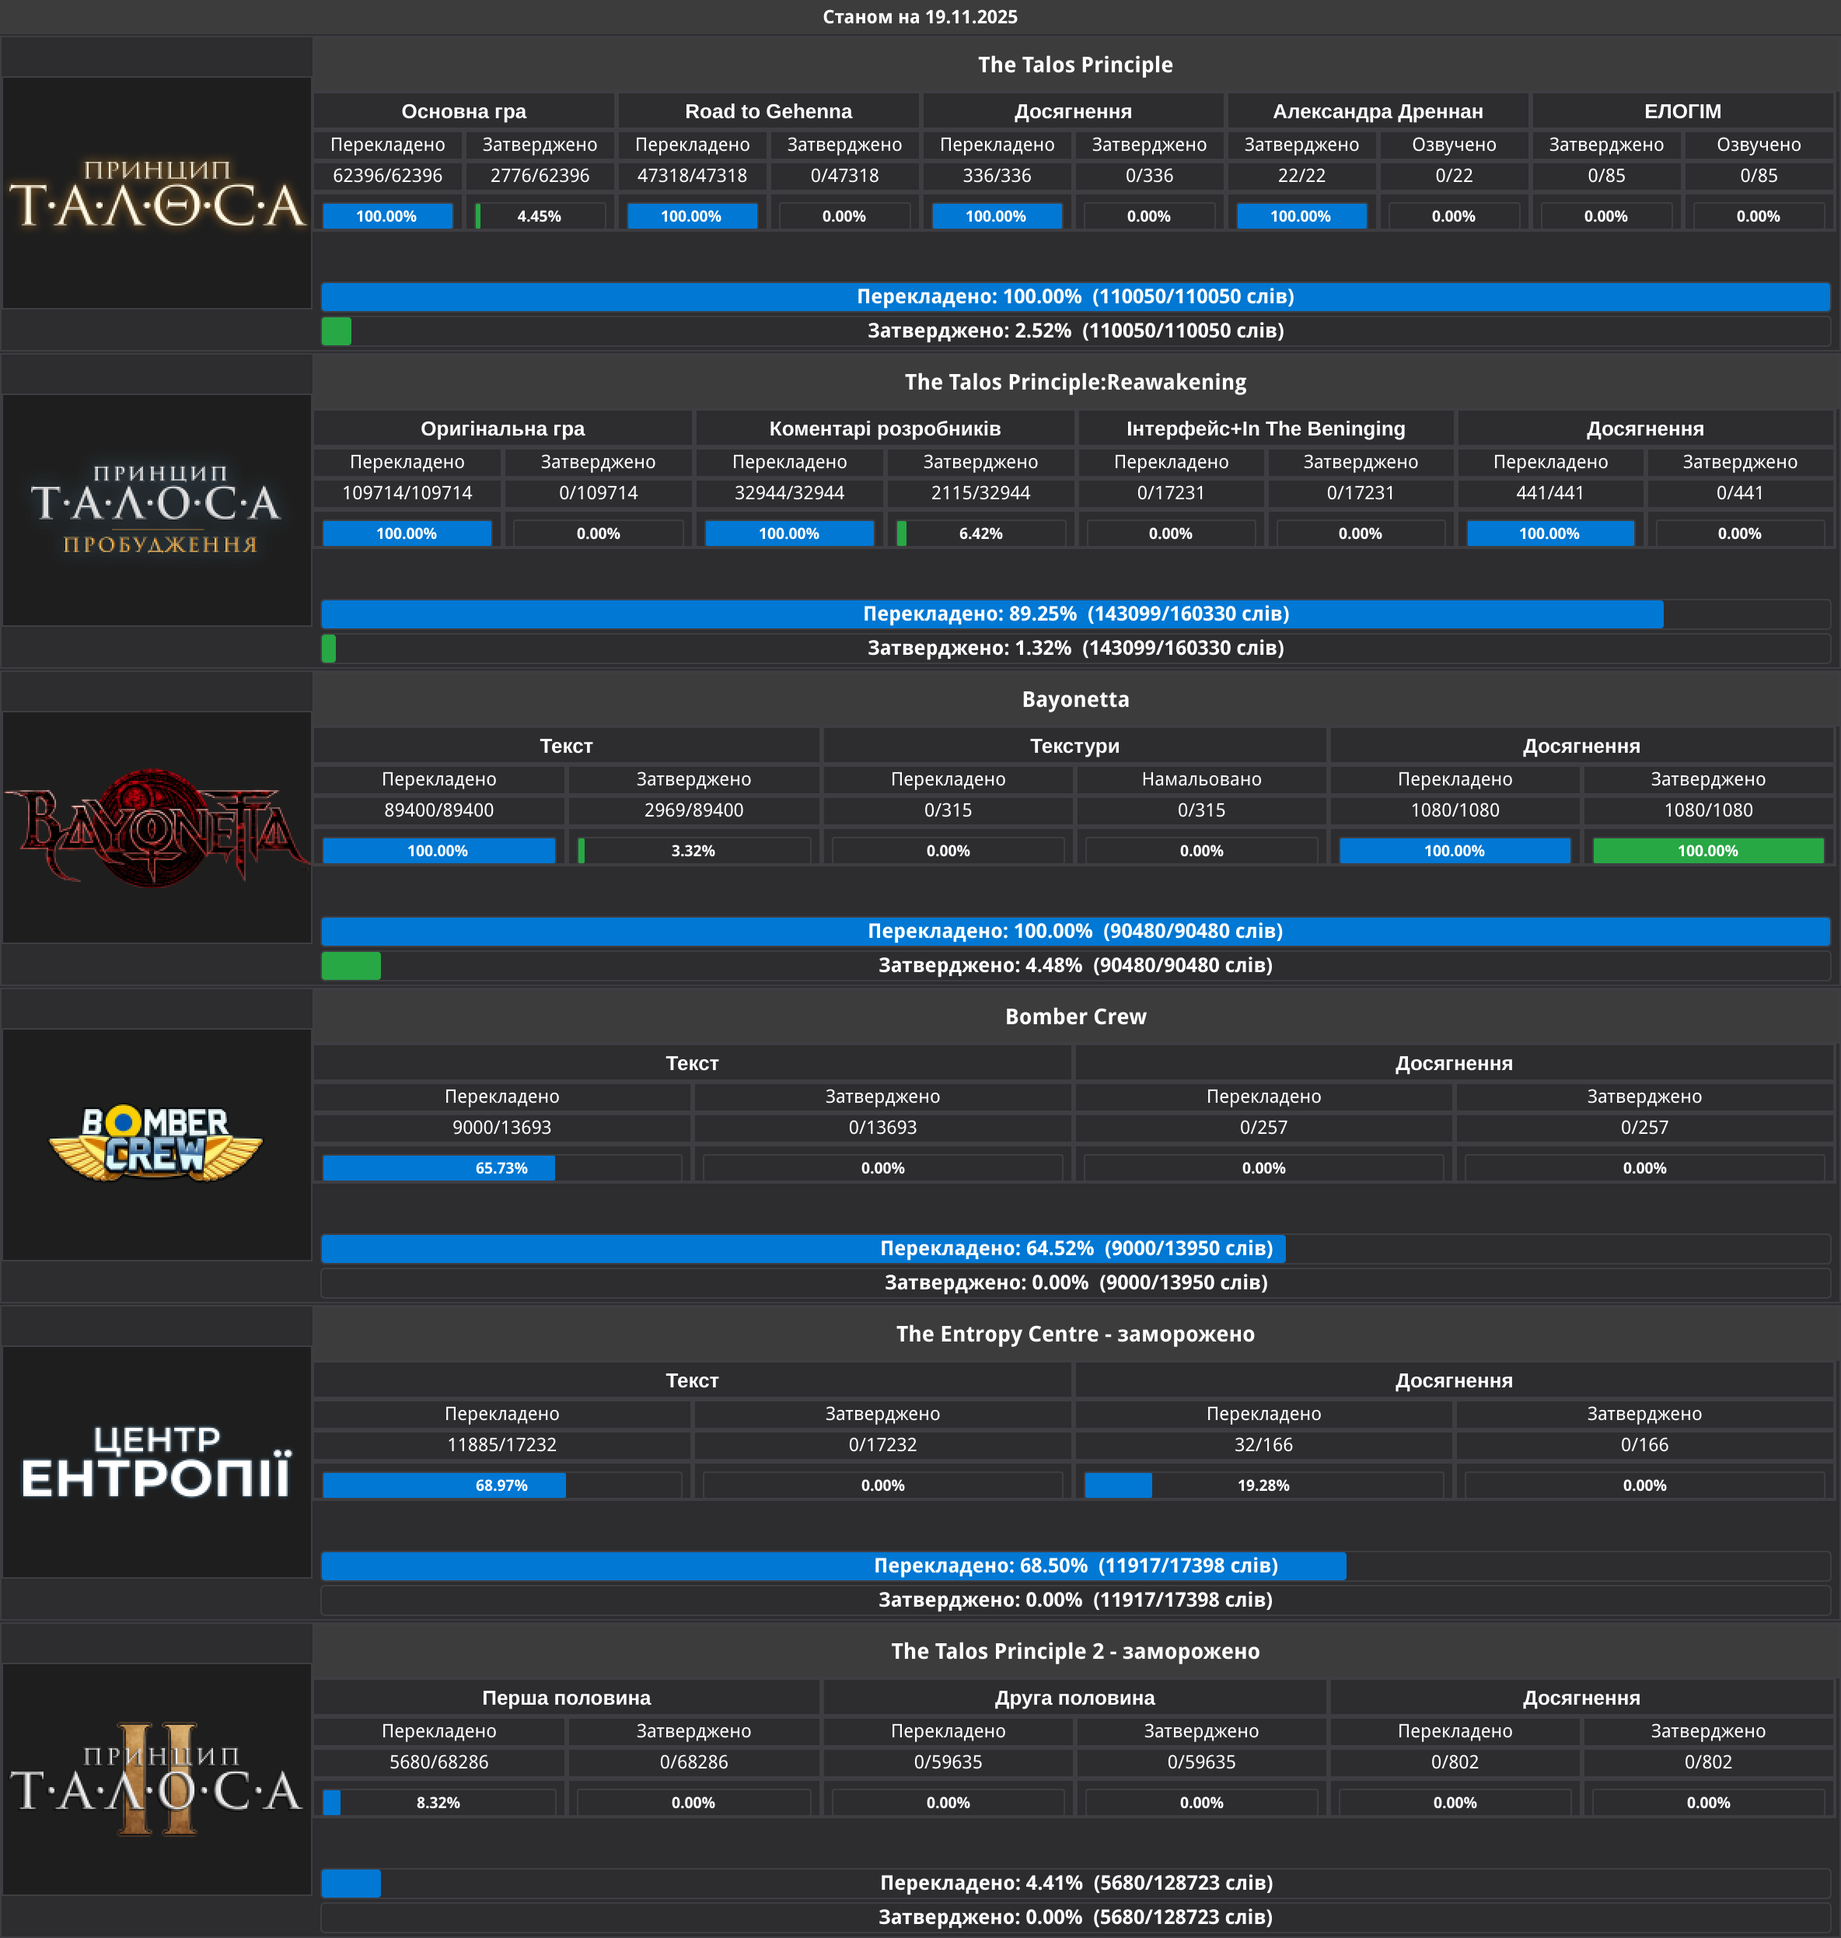
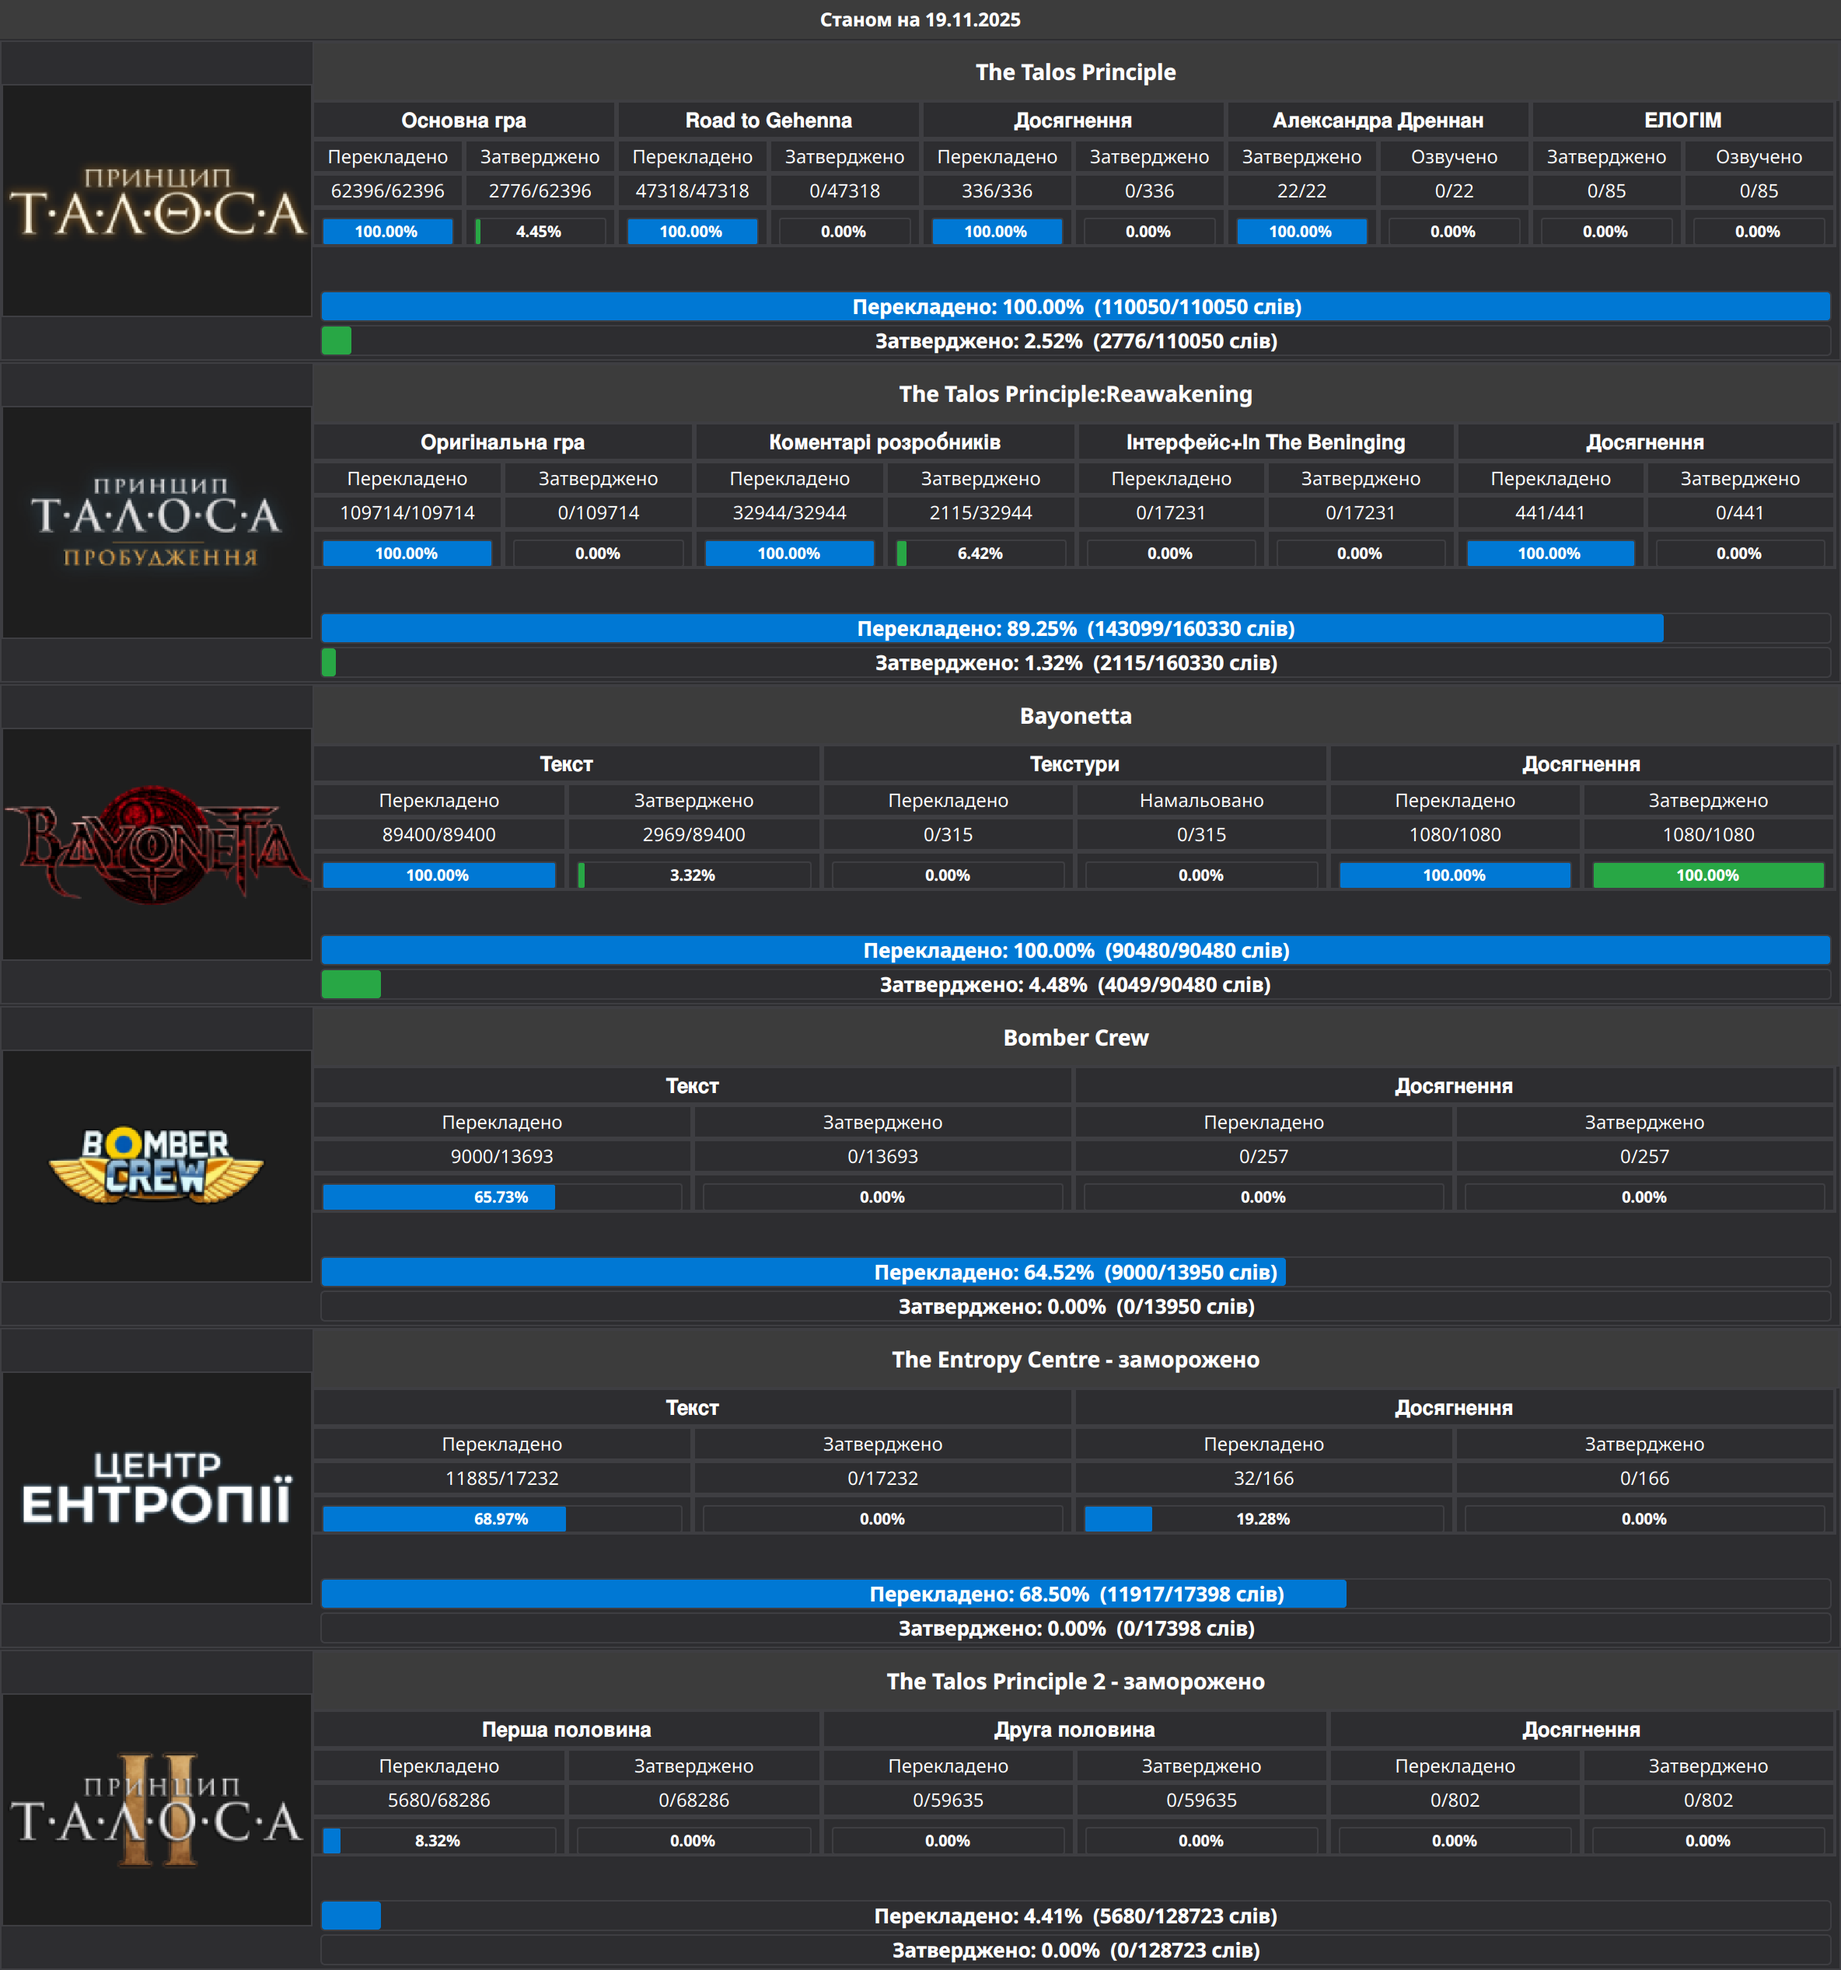
fixed overall approved counter

diff --git a/main.py b/main.py
@@ -256,10 +256,11 @@ class StatsWindow(QWidget):
                 # Підрахунок слів на основі included_sections
                 words_total = sum(int(s.get("total", 0) or 0) for s in included_sections)
                 words_translated = sum(int(s.get("translated", 0) or 0) for s in included_sections)
+                words_approved = sum(int(s.get("approved", 0) or 0) for s in included_sections)
 
                 if words_total > 0:
                     words_info_trans = f" ({words_translated}/{words_total} слів)"
-                    words_info_appr = f" ({words_translated}/{words_total} слів)"
+                    words_info_appr = f" ({words_approved}/{words_total} слів)"
                 else:
                     words_info_trans = ""
                     words_info_appr = "" 
